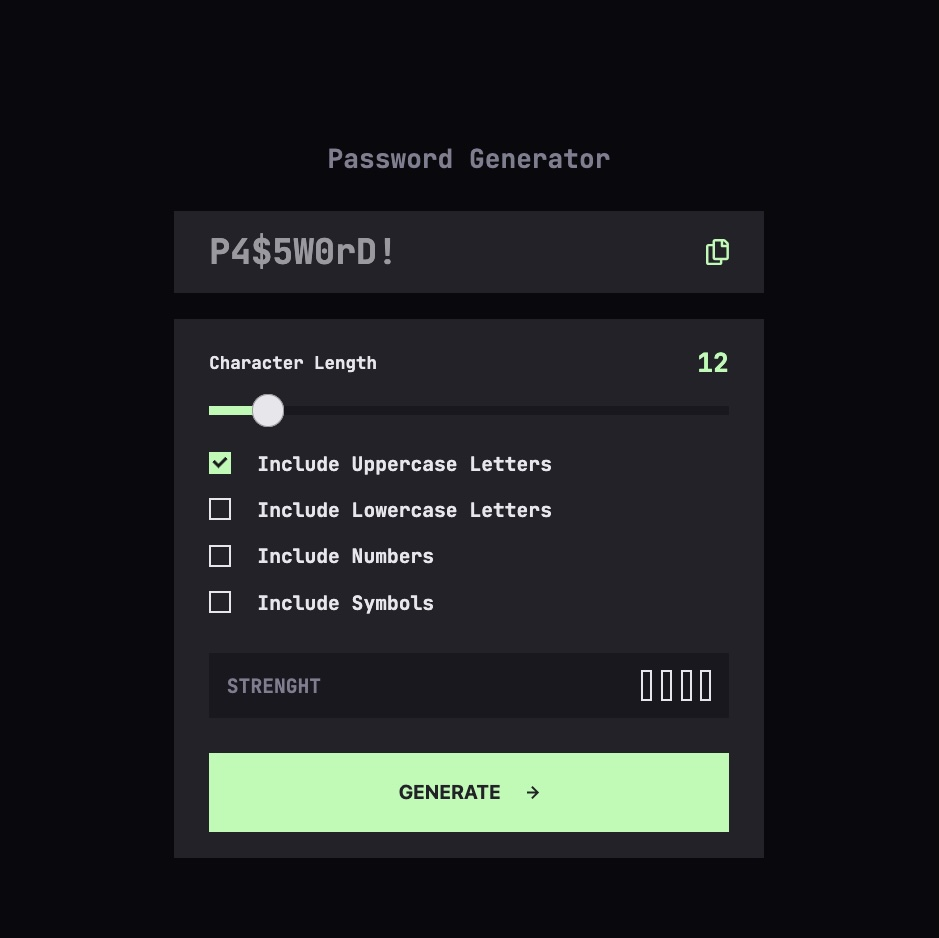
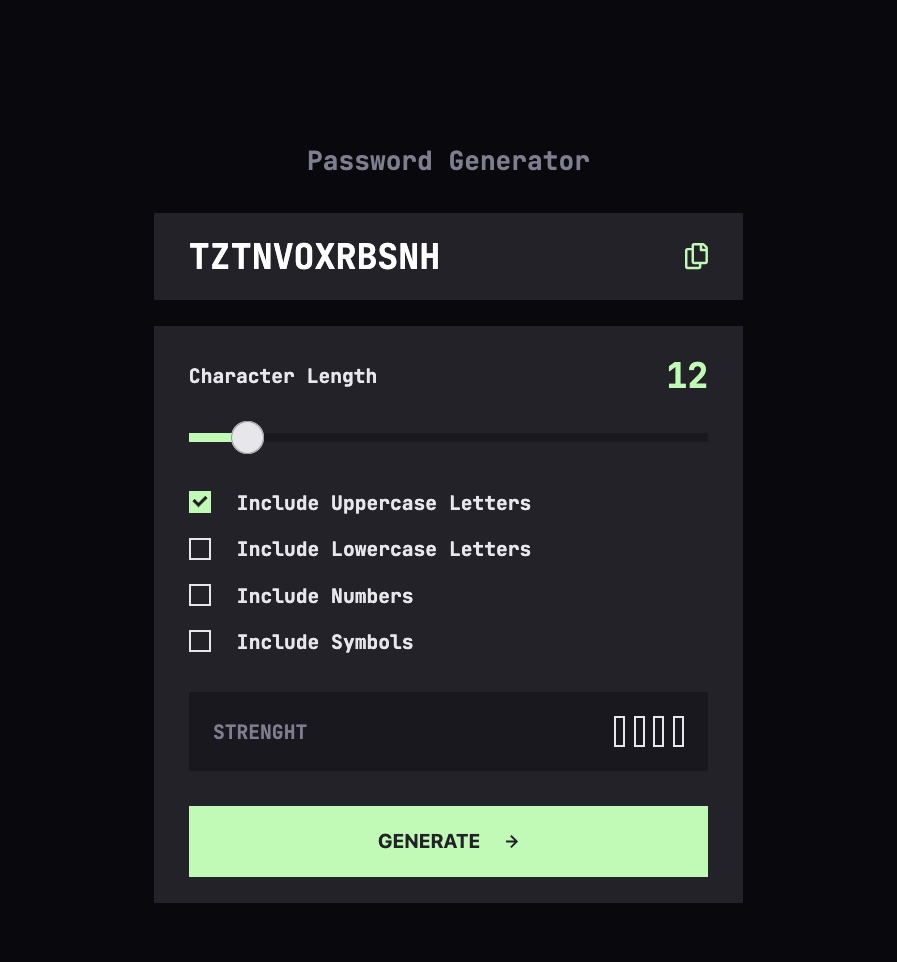
Updated readme file

diff --git a/assets/css/style.css b/assets/css/style.css
@@ -480,7 +480,7 @@ input[type="range"]:focus-visible::-moz-range-thumb {
   }
 
   .password {
-    padding: 1rem 2rem;
+    padding: 1.155rem 2rem;
   }
 
   /* DISPLAY PASSWORD */
@@ -513,14 +513,25 @@ input[type="range"]:focus-visible::-moz-range-thumb {
   }
 
   /* OPTIONS */
+  .option__label-cursor label {
+    font-size: var(--fs-18);
+    line-height: var(--lh-fs18);
+  }
+  .cursor__value {
+    font-size: var(--fs-32);
+    line-height: var(--lh-fs32);
+  }
   .options {
     padding: 1.5rem 2rem;
   }
   .option__cursor {
-    gap: 1.5rem;
+    gap: 2rem;
   }
 
   /* CHECKBOX */
+  .option__char {
+    padding-top: 0.7rem;
+  }
   .checkbox__choice label {
     gap: 1.5rem;
   }
@@ -530,6 +541,9 @@ input[type="range"]:focus-visible::-moz-range-thumb {
   }
 
   /* -- strength -- */
+  .strength {
+    padding: 1.38rem;
+  }
   .strength__content {
     gap: 2rem;
   }
@@ -544,7 +558,7 @@ input[type="range"]:focus-visible::-moz-range-thumb {
 
   /* -- GENERATE BUTTON -- */
   .btn {
-    padding: 1.5rem;
+    padding: 1.28rem;
     gap: 1.5rem;
   }
   .btn span {